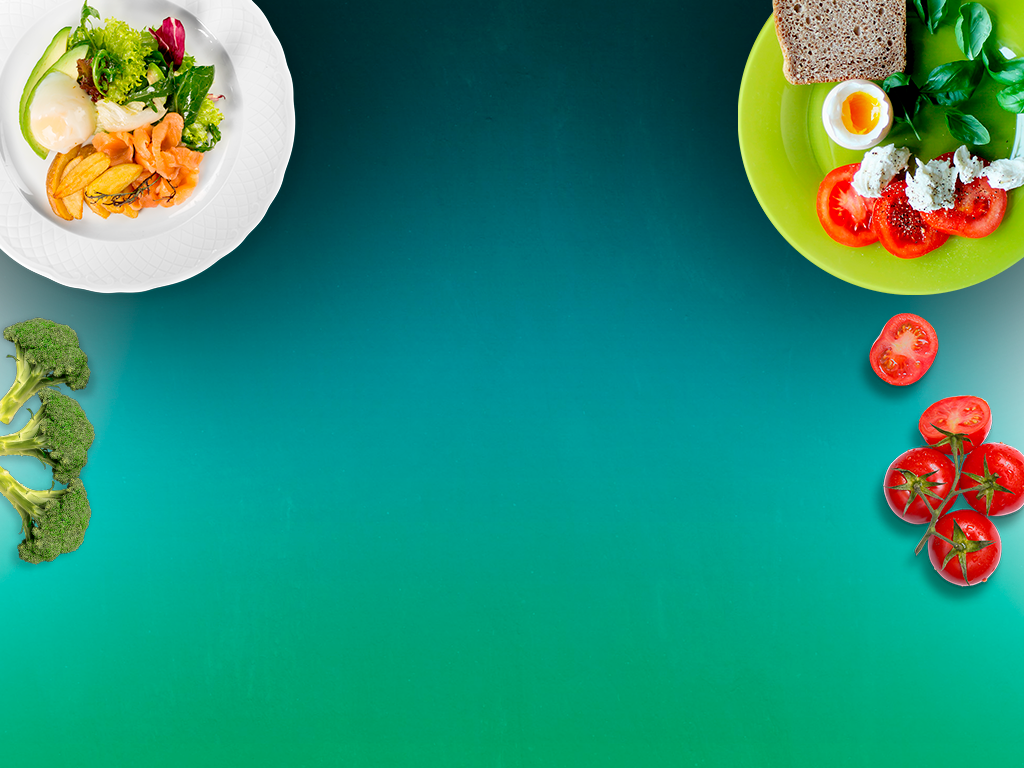
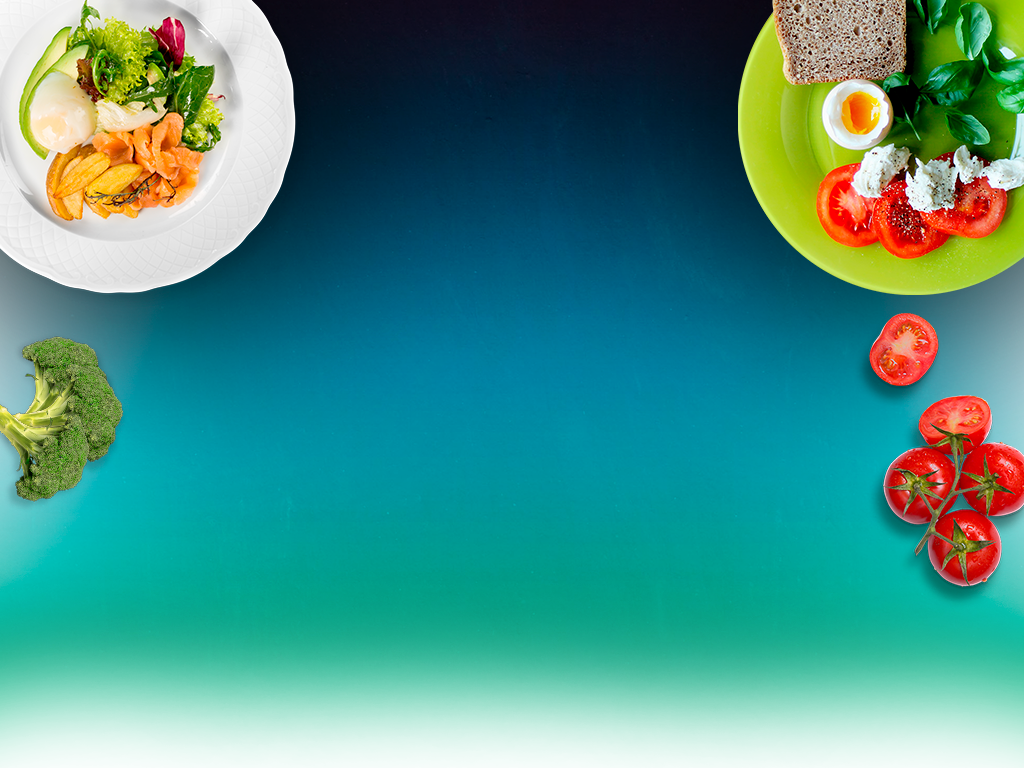
Alterações no layout (Cores e afins).

diff --git a/style.css b/style.css
@@ -8,10 +8,15 @@
 body{
     background: url('./img/ArteBG.png') no-repeat;
     background-size: 100%;
-    background-color: #15a26a;
+    background-color: #1f975b;
 }
 #logo{
     height: 150px;
+    background-size: 40%;
+    background-repeat: no-repeat;
+    background-image: url(./img/LogoParaSite.png);
+    margin-top: 3%;
+    margin-left: 40%;
 }
 #textodieta{
     color: white;
@@ -120,13 +125,12 @@ input.weight-icon {
     height: 473px;
 }
 .painel-resultados .col{
-    background-color: #0b4b50;
+    background-color: #112f43;
     border-radius: 25px;
     padding: 10px;
     margin: 15px;
     color: white;
     text-align: center;
-    align: middle;
 }
 #img-agua{
     width: 100%;

diff --git a/index.html b/index.html
@@ -11,7 +11,9 @@
 </head>
 <body>
     <div class="container">
-        <div class="row" id="logo"></div>
+        <div class="row" >
+            <div class="col" id="logo"></div>
+        </div>
         <div id="textodieta" class="row ">
             <div class="col">
                 <h1>Pegue aqui sua dieta personalizada</h1>

diff --git a/script.js b/script.js
@@ -3,7 +3,7 @@ function qtdAgua(peso){
 }
 
 function calcIMC(peso, altura){
-    return (peso / (altura * altura)).toFixed(2);
+    return (peso / (altura * altura)).toFixed(1);
 }
 
 function qtdProteinas(peso){
